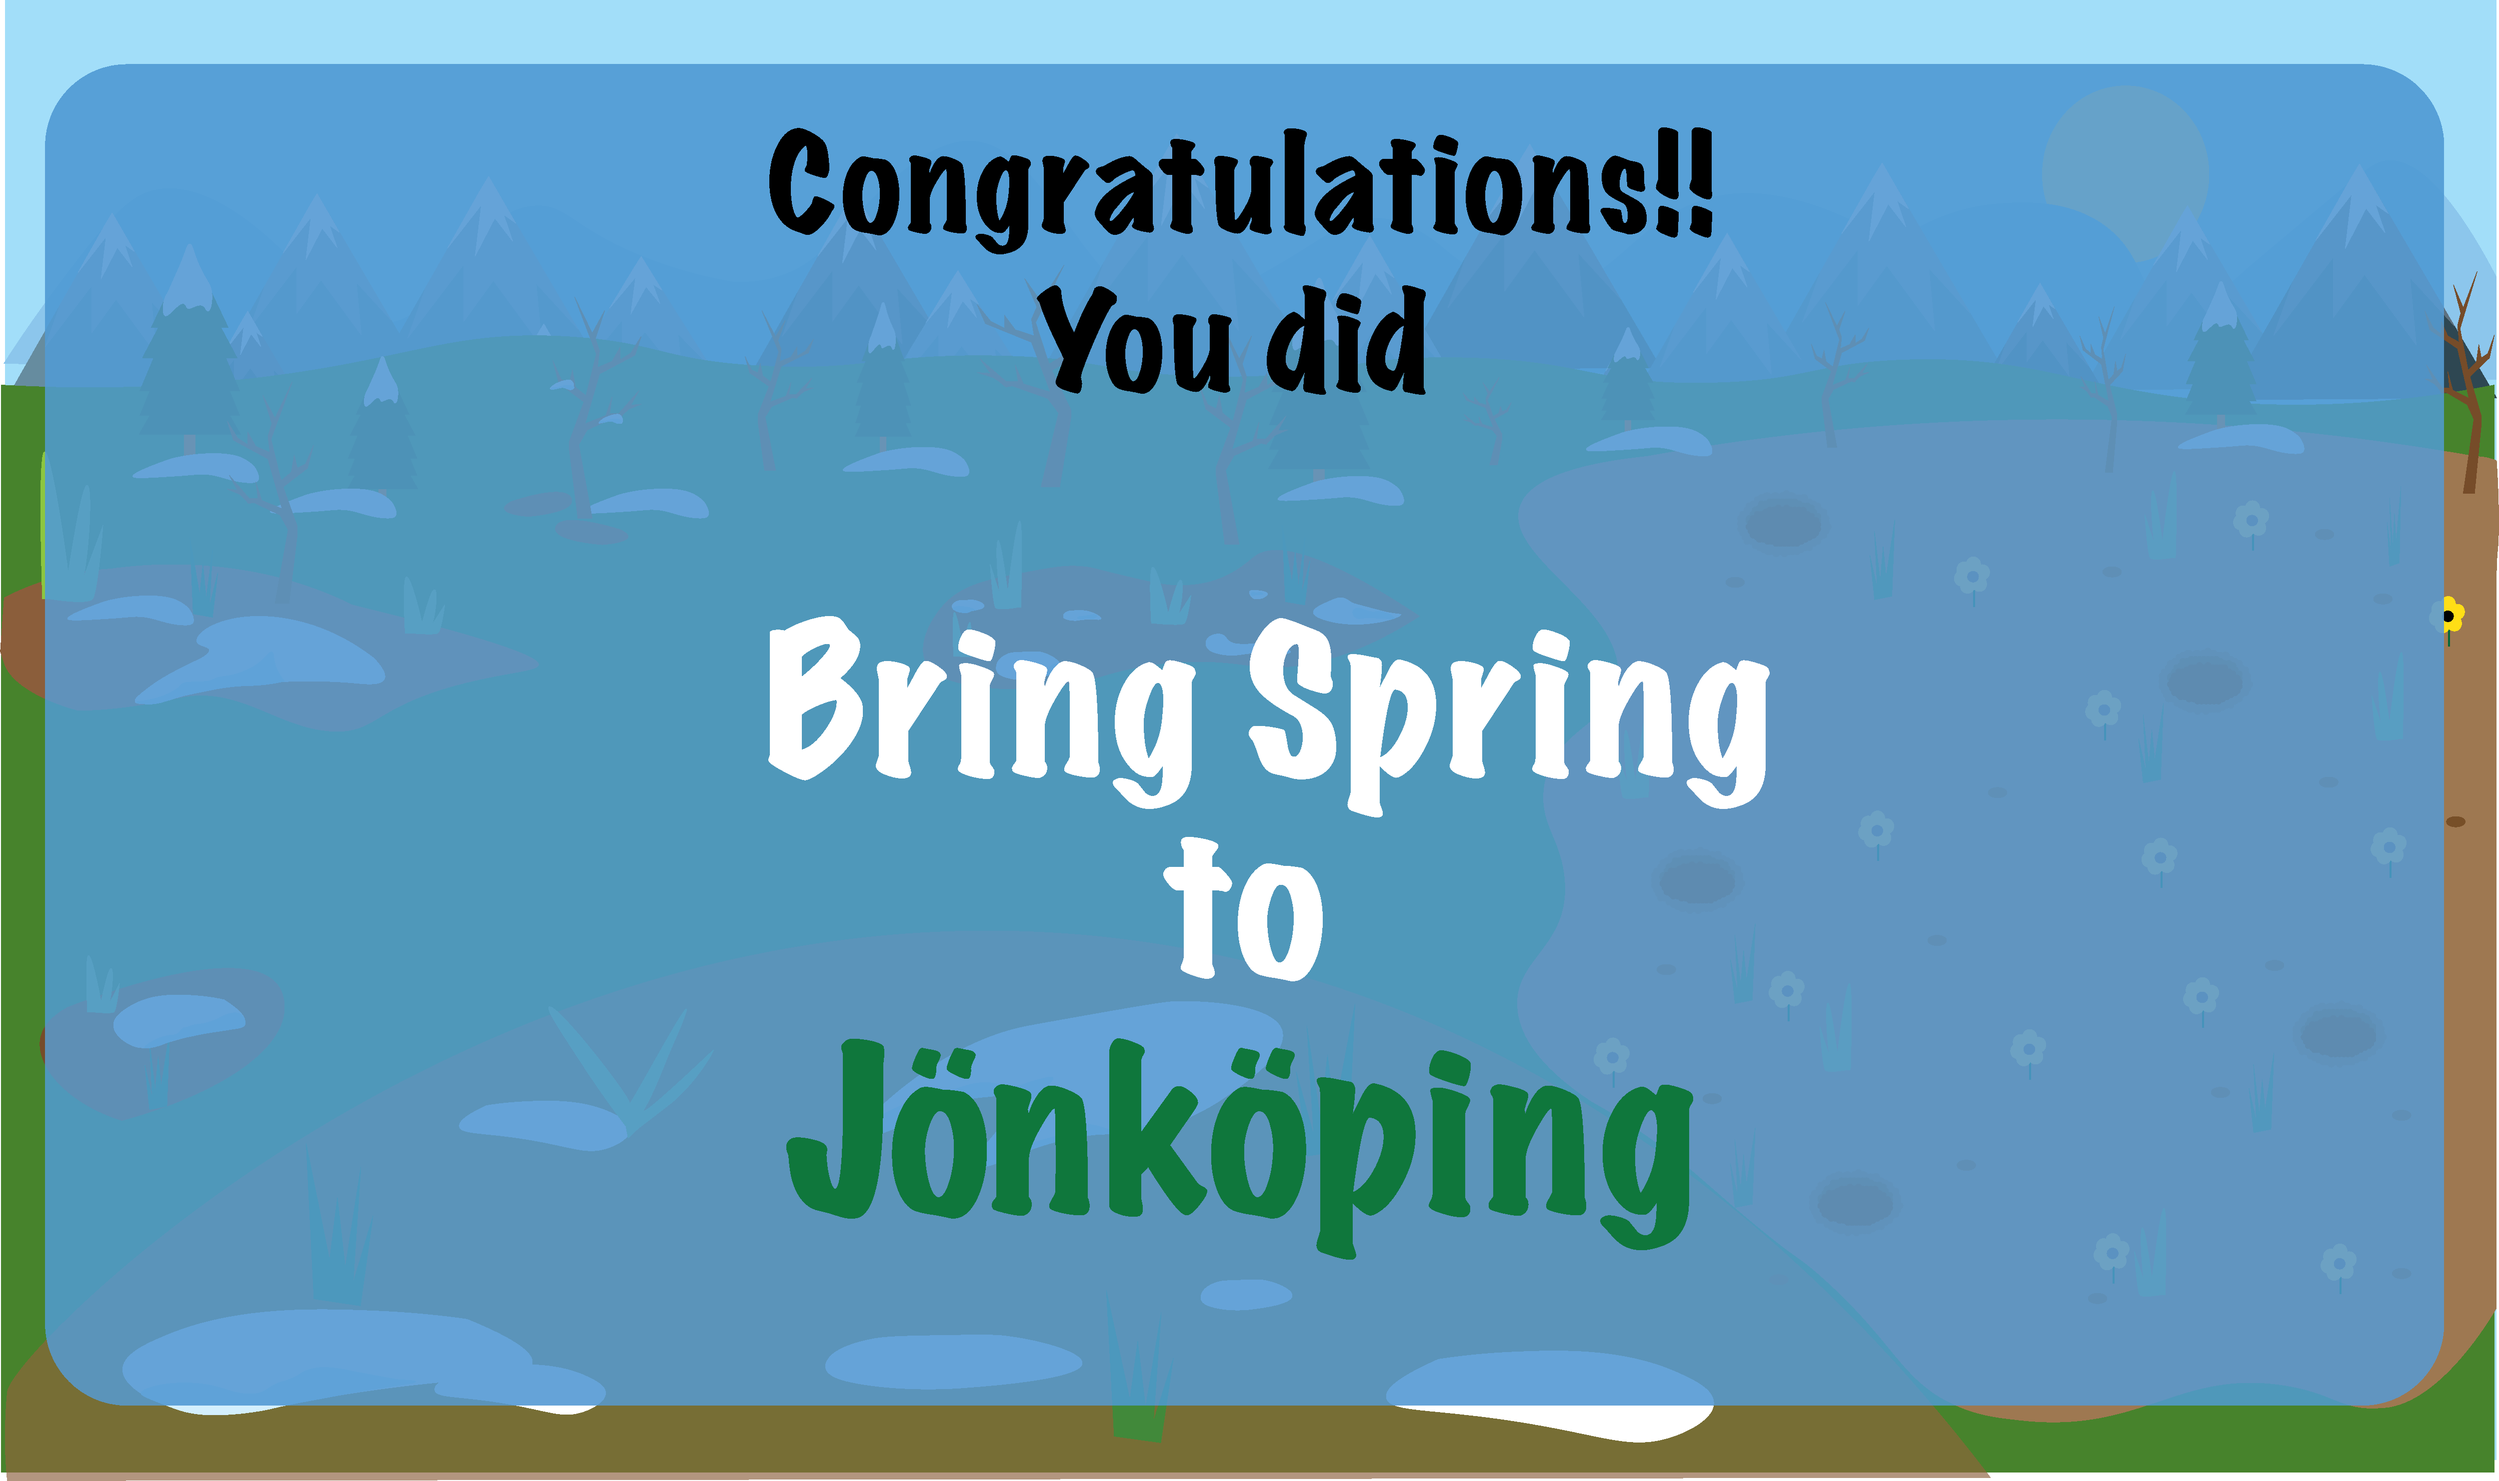
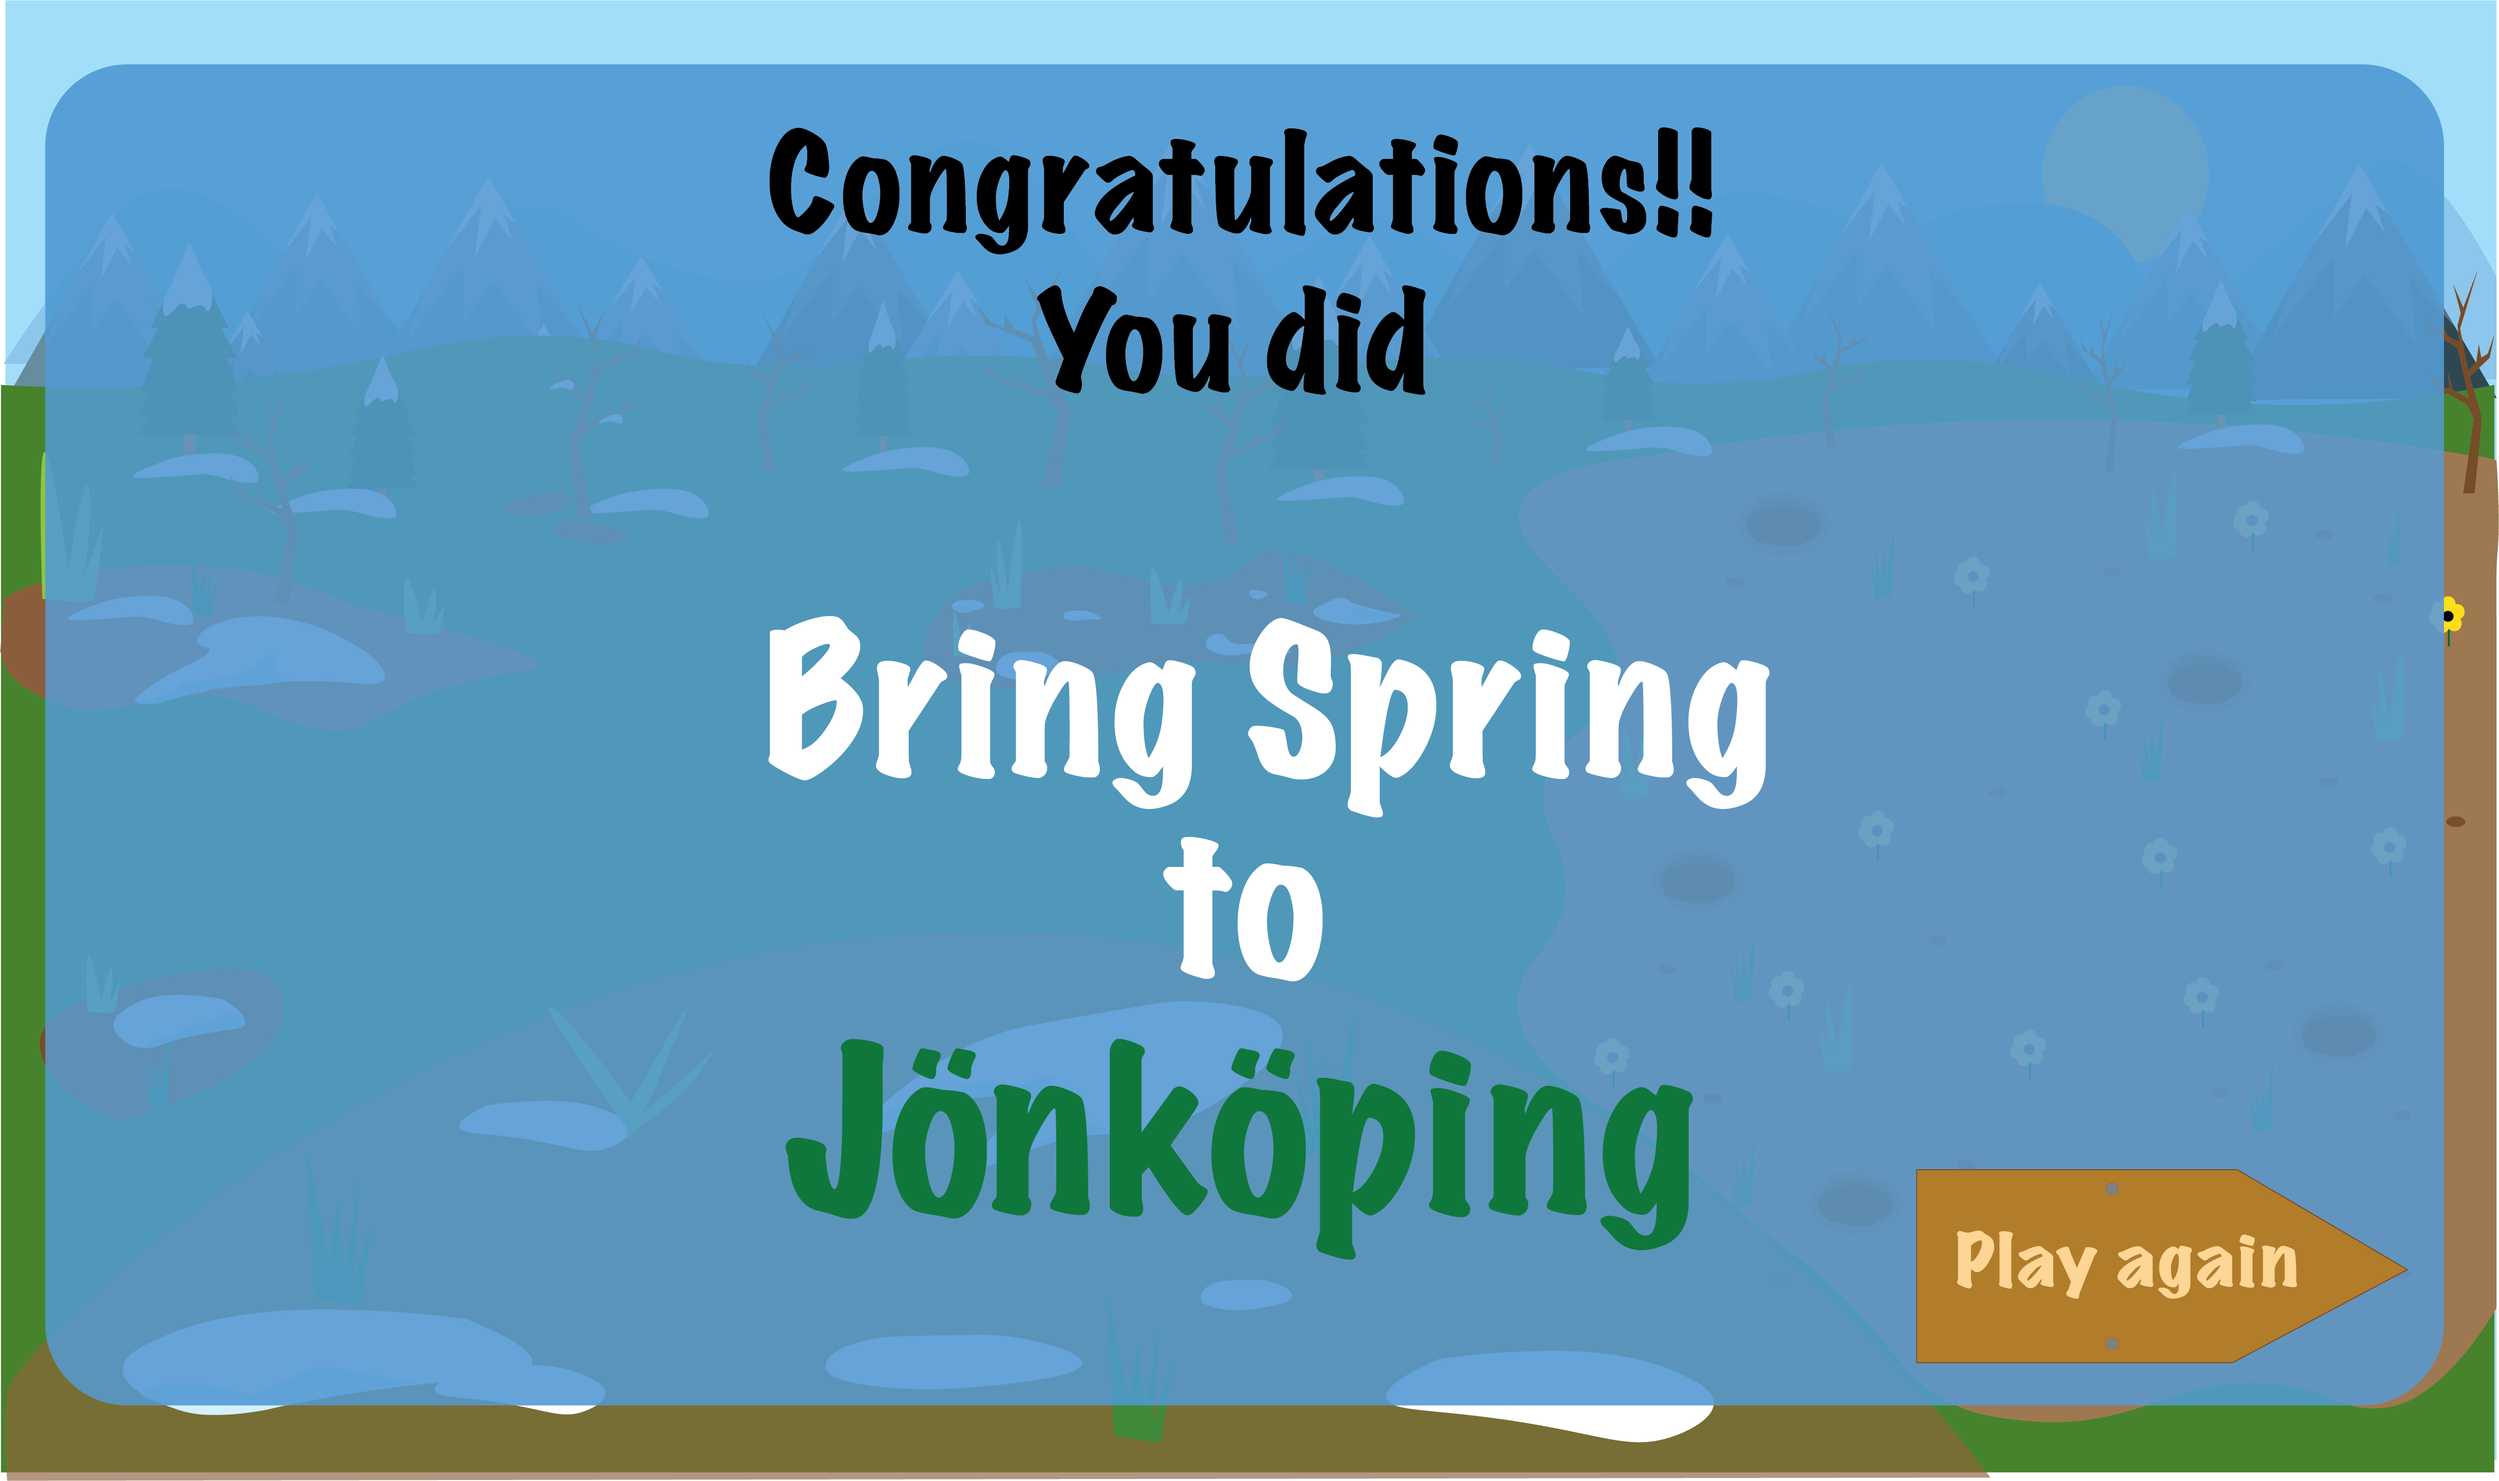
new win, redirectings

Changed region(s): [[0.7489, 0.776, 0.9674, 0.9312], [0.9986, 0.3104, 1.0, 0.4035]]

diff --git a/Win/win.js b/Win/win.js
@@ -2,9 +2,12 @@ function setup() {
     createCanvas(1200, 700);
 
     // Create the button
-  button = createButton("Click here to play again");
-  button.position(500, 650);
-  button.mousePressed(goToLevel1);
+    button = createButton("");
+    button.position(925, 560);
+    button.size(240, 95); 
+    button.mousePressed(goToLevel1);
+    button.style("background-color", "transparent");
+    //button.style("border", "none");
 }
 
 
@@ -19,5 +22,5 @@ function draw() {
 
  // Function to handle button click
 function goToLevel1() {
-    window.location.href = "../index.html"; // Redirect to level1.html
+    window.location.href = "../index.html"; // Redirect to the start
   }

diff --git a/Lose/lose.js b/Lose/lose.js
@@ -22,5 +22,5 @@ function draw() {
 
  // Function to handle button click
 function goToLevel1() {
-    window.location.href = "../Level1/level1.html"; // Redirect to level1.html
+    window.location.href = "../PreLevel1/prelevel1.html"; // Redirect to level1.html
   }

diff --git a/LoseLevel2/lose2.js b/LoseLevel2/lose2.js
@@ -22,5 +22,5 @@ function draw() {
 
  // Function to handle button click
 function goToLevel1() {
-    window.location.href = "../Level2/level2.html"; // Redirect to level1.html
+    window.location.href = "../PreLevel2/prelevel2.html"; // Redirect to level1.html
   }
